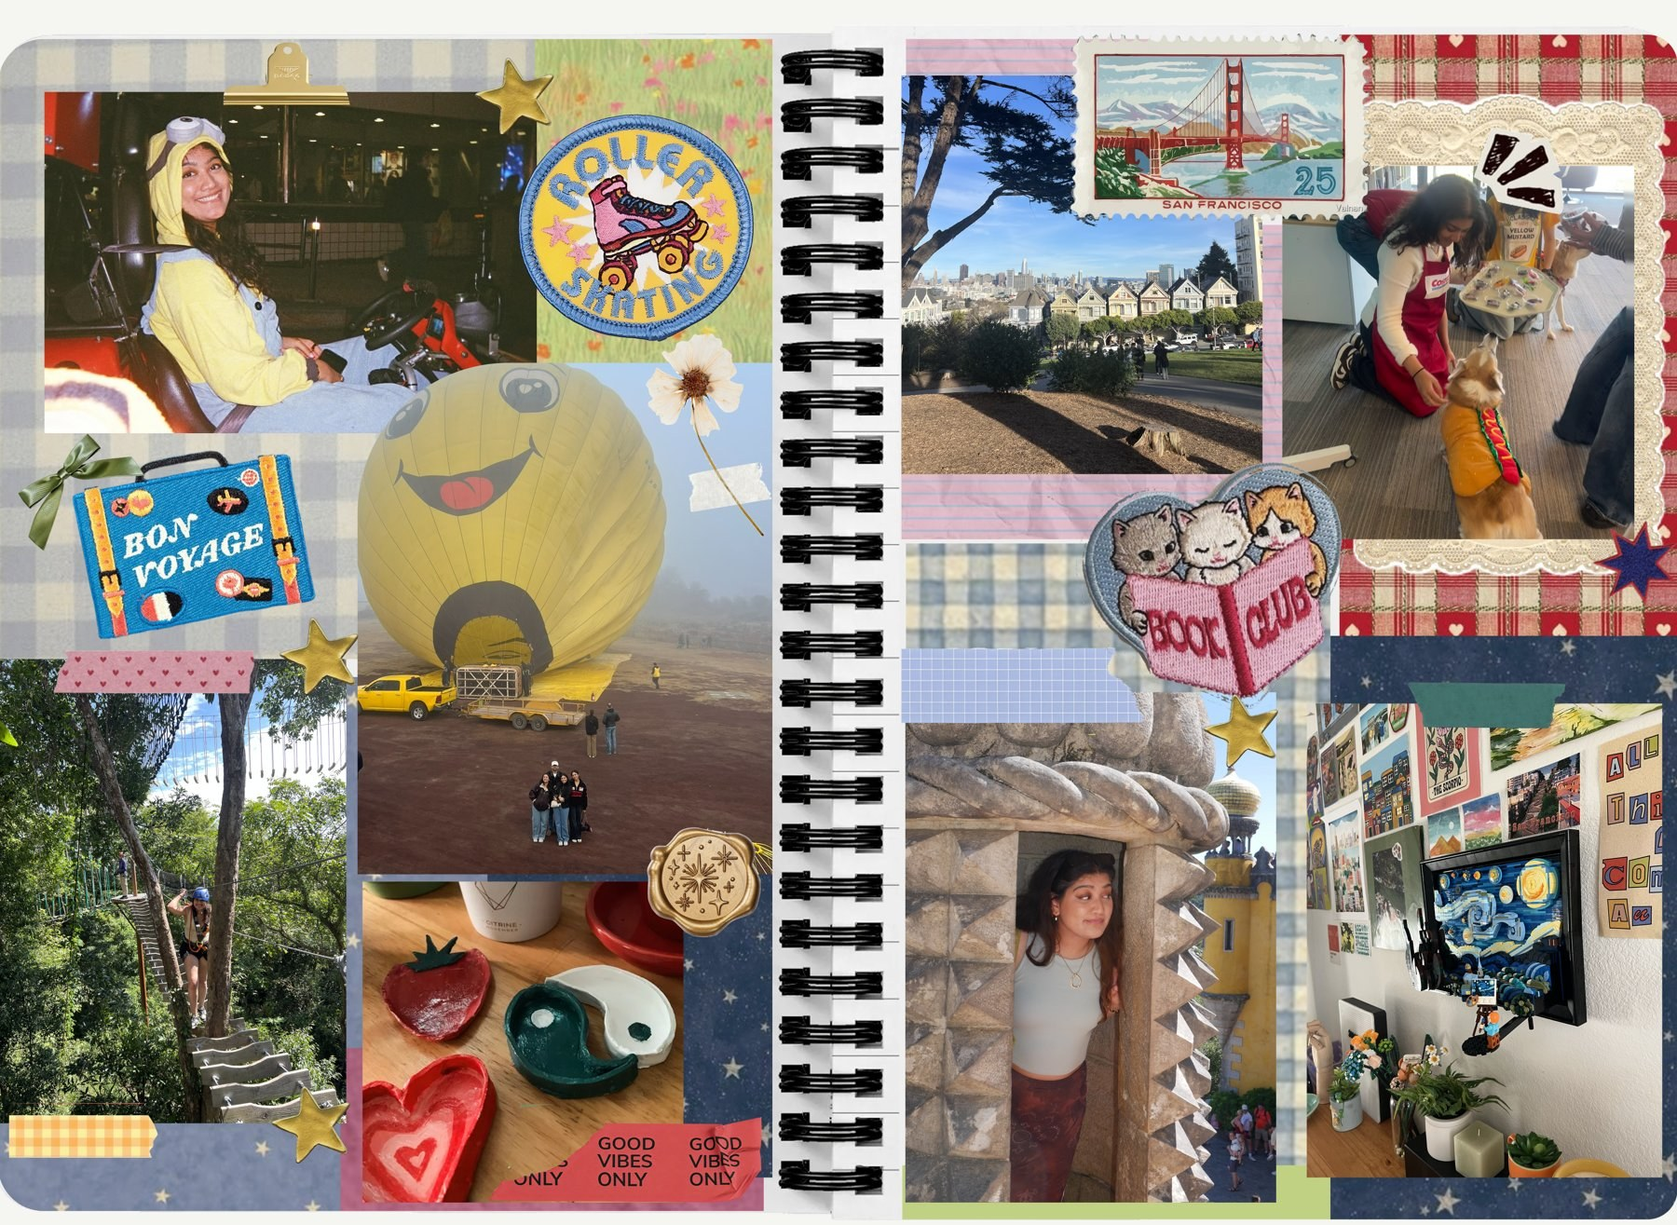
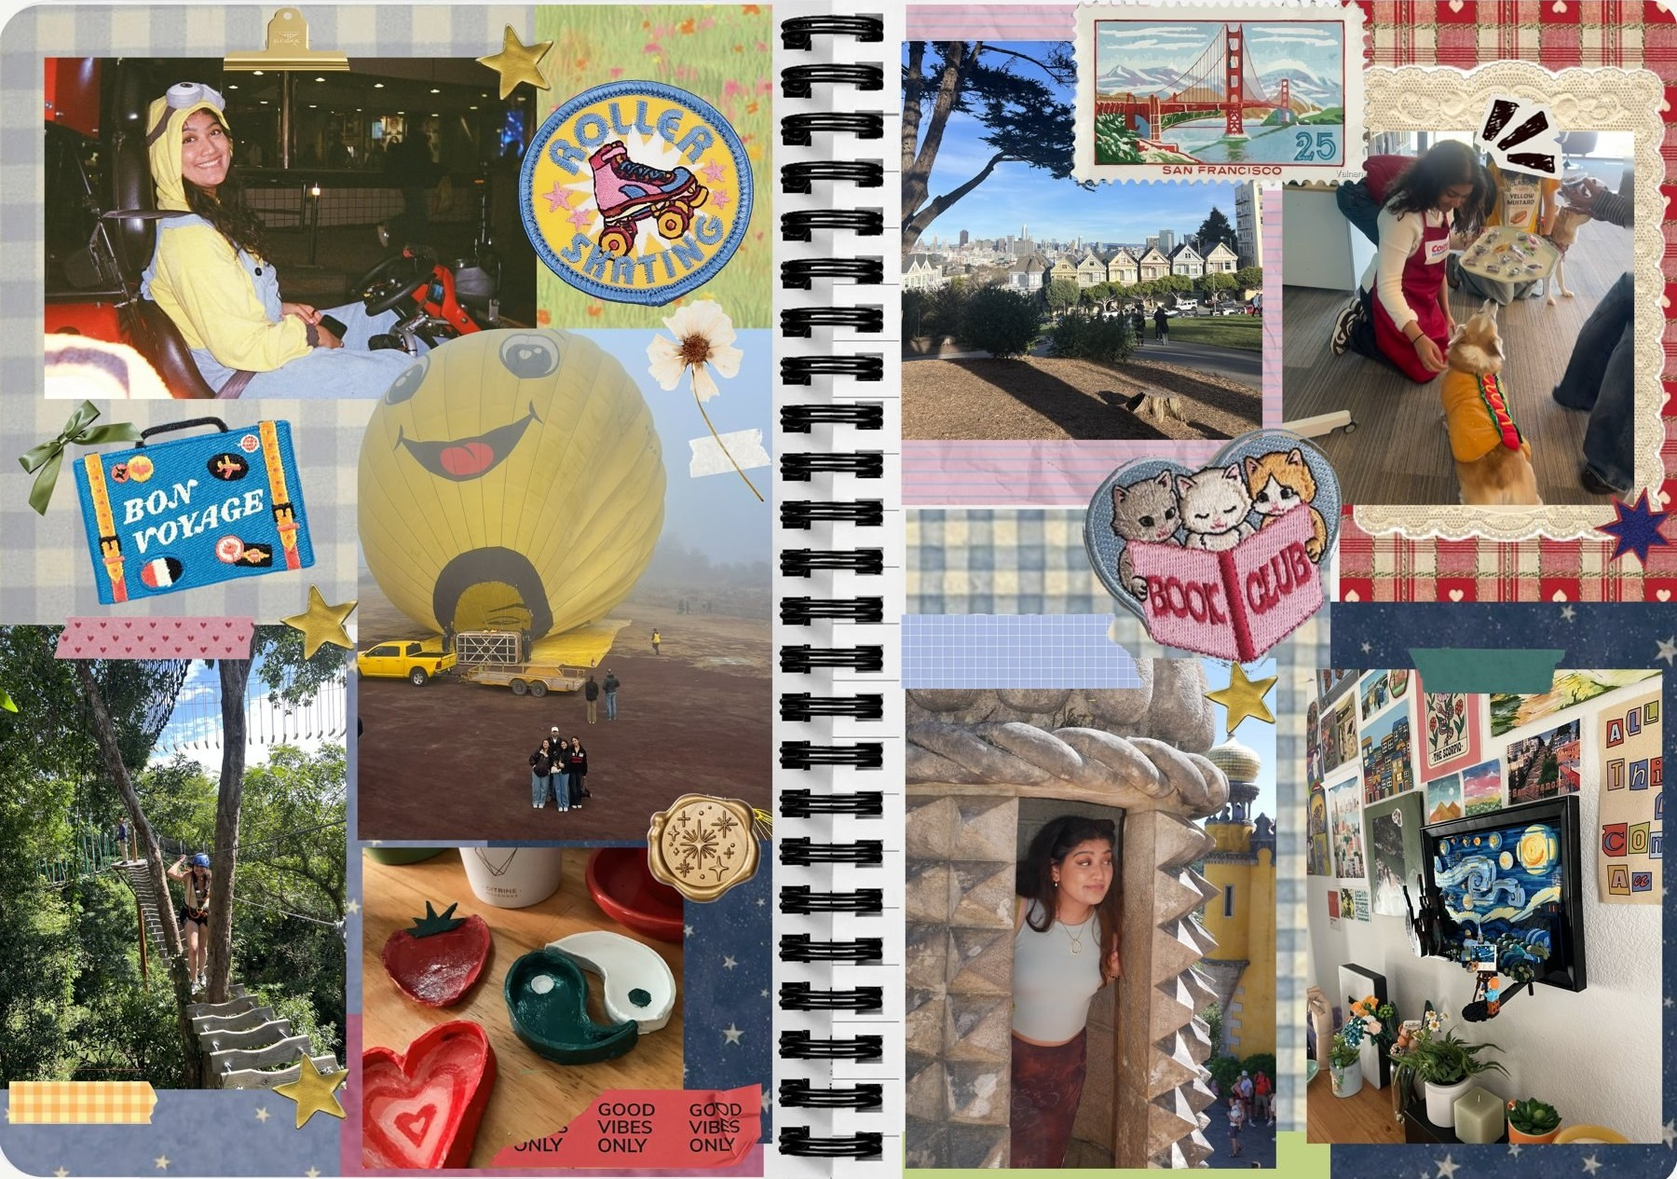
Play: maker matches scrapbook size, tools in boxes, one back button, note top right, trimmed spread image

diff --git a/play.html b/play.html
@@ -90,7 +90,7 @@ a{color:#3B3BF5}
 .pl-btn:hover,.mk-btn:hover{transform:translateY(-2px)}
 .pl-dark,.mk-dark{background:#1C1C1C;border-color:#1C1C1C;color:#FFFFFF}
 .pl-maker{position:relative;max-width:900px;margin:40px auto 0;padding:0 24px}
-.mk-page{position:relative;width:100%;aspect-ratio:1800/1315;border-radius:18px;box-shadow:0 18px 44px rgba(20,20,40,.14);overflow:hidden;touch-action:none;user-select:none;-webkit-user-select:none}
+.mk-page{position:relative;width:100%;aspect-ratio:1800/1265;border-radius:18px;box-shadow:0 18px 44px rgba(20,20,40,.14);overflow:hidden;touch-action:none;user-select:none;-webkit-user-select:none}
 .mk-half{position:absolute;top:0;bottom:0;width:50%}.mk-l{left:0}.mk-r{right:0}
 .mk-spine{position:absolute;left:50%;top:0;bottom:0;width:28px;margin-left:-14px;background:linear-gradient(90deg,transparent,rgba(60,50,30,.10) 45%,rgba(60,50,30,.16) 50%,rgba(60,50,30,.10) 55%,transparent);pointer-events:none}
 .mk-items{position:absolute;inset:0}
@@ -132,25 +132,31 @@ a{color:#3B3BF5}
 .mk-paper[aria-pressed="true"]{box-shadow:0 0 0 2px #F5F4F0,0 0 0 4px #7A70D8}
 .mk-ph{font:clamp(10px,1.6vw,17px) Caveat,cursive;color:rgba(43,41,55,.55);text-align:center;padding:0 6px}
 .mk-stage{display:block}
-.mk-back{display:none!important}
+.mk-box{border:1px solid #E4E1D9;border-radius:18px;background:rgba(255,255,255,.6);padding:14px;margin:18px auto 0;max-width:520px}
+.mk-box-title{margin:0 0 10px;font:600 11px Inter,sans-serif;letter-spacing:.08em;text-transform:uppercase;color:#7A70B8;text-align:center}
+.mk-box .mk-wordbar,.mk-box .mk-papers,.mk-box .mk-actions{margin-top:0}
+.mk-box .mk-papers{margin-top:12px}
+.mk-box .mk-hint{margin-top:10px}
 .mk-rail{display:none}
 .mk-chip{position:relative}
 .mk-chip::after{content:attr(data-tip);position:absolute;bottom:calc(100% + 8px);left:50%;transform:translateX(-50%) translateY(4px);background:#1C1C1C;color:#FFFFFF;font:12px/1.2 Inter,sans-serif;padding:6px 9px;border-radius:8px;white-space:nowrap;opacity:0;pointer-events:none;transition:opacity .15s,transform .15s;z-index:5}
 .mk-chip:hover::after,.mk-chip:focus-visible::after{opacity:1;transform:translateX(-50%) translateY(0)}
 @media (min-width:1100px){
   .pl-maker{max-width:none;margin-top:28px}
-  .mk-stage{display:grid;grid-template-columns:150px minmax(0,calc((100vh - 130px) * 1800 / 1315)) 150px;gap:28px;align-items:center;justify-content:center}
+  .mk-stage{display:grid;grid-template-columns:150px var(--bw) 150px;gap:28px;align-items:center;justify-content:center}
   .mk-rail{display:flex;flex-direction:column;gap:16px;align-items:stretch}
-  .mk-rail-sk{display:grid;grid-template-columns:repeat(2,52px);gap:10px;justify-content:center}
+  .mk-rail-sk{display:grid;grid-template-columns:repeat(3,44px);gap:8px;justify-content:center}
+  .mk-rail-sk .mk-chip{width:44px;height:44px;padding:5px;border-radius:12px}
   .mk-rail .mk-wordbar{flex-direction:column;margin:0;gap:6px}
   .mk-rail .mk-word-in{width:100%;box-sizing:border-box;padding:9px 12px;font-size:13px}
   .mk-rail .mk-wordbar .mk-btn{width:100%}
   .mk-rail .mk-papers{display:grid;grid-template-columns:repeat(3,30px);gap:8px;justify-content:center;margin:0}
   .mk-rail .mk-papers span{grid-column:1/-1;text-align:center;margin:0}
   .mk-rail .mk-actions{flex-direction:column;margin:0;gap:8px}
-  .mk-rail .mk-actions .mk-btn{width:100%}
-  .mk-rail .mk-hint{font-size:12px;margin:0;line-height:1.4}
-  .mk-back{display:block!important;width:100%}
+  .mk-rail .mk-actions .mk-btn{width:100%;white-space:nowrap;padding:9px 8px;font-size:13px}
+  .mk-rail .mk-hint{font-size:12px;margin:10px 0 0;line-height:1.4}
+  .mk-rail .mk-box{margin:0;padding:12px;max-width:none}
+  .mk-rail .mk-papers{margin-top:12px}
   .mk-tray{display:none!important}
 }
 .why-note{position:relative;margin:0 auto;max-width:300px;background:#FFFDF6;padding:22px 20px 18px;box-shadow:0 10px 24px rgba(20,20,40,.12);transform:rotate(-2.5deg);font:20px/1.25 Caveat,cursive;color:#2B2937;text-align:left;order:-1}
@@ -158,8 +164,9 @@ a{color:#3B3BF5}
 .why-note b{display:block;font:600 11px Inter,sans-serif;letter-spacing:.08em;text-transform:uppercase;color:#7A70B8;margin-bottom:6px}
 .note-cta{display:block;margin-top:12px;padding:8px 12px;white-space:nowrap;border:0;border-radius:999px;background:#1C1C1C;color:#FFFFFF;font:500 13px Inter,sans-serif;cursor:pointer;transition:transform .2s cubic-bezier(.34,1.56,.64,1)}
 .note-cta:hover{transform:translateY(-2px) rotate(1deg)}
-@media (min-width:1240px){.pl-book{max-width:780px!important}.why-note{position:absolute;left:-206px;top:90px;width:170px;max-width:none;z-index:3;order:0;font-size:18px;padding:20px 16px 16px}}
-@media (min-width:1440px){.pl-book{max-width:900px!important}.why-note{left:-262px;width:200px}}
+@media (min-width:1100px){:root{--bw:calc(100vw - 420px)}.pl-book{max-width:var(--bw)!important}}
+@media (min-width:1240px){:root{--bw:732px}.why-note{position:absolute;right:-150px;top:-34px;width:184px;max-width:none;z-index:3;order:0;font-size:18px;padding:20px 16px 16px;transform:rotate(4deg)}}
+@media (min-width:1440px){:root{--bw:852px}.why-note{right:-176px;width:200px}}
 .mk-tray{display:flex;gap:8px;flex-wrap:wrap;justify-content:center;margin-top:20px}
 .mk-chip{width:52px;height:52px;border-radius:14px;border:1px solid #E4E1D9;background:#FFFFFF;display:flex;align-items:center;justify-content:center;cursor:pointer;padding:6px;transition:transform .2s cubic-bezier(.34,1.56,.64,1)}
 .mk-chip:hover{transform:translateY(-3px)}
@@ -202,52 +209,52 @@ body.making .sga-root{display:none}
 
   <section class="pl-book" style="position: relative; max-width: 900px; margin: 48px auto 0; padding: 0 24px; flex-direction: column; align-items: center; gap: 20px; display: {{ bookD }}">
     <aside class="why-note"><b>Why a scrapbook?</b>Scrapbooking is my analog design practice: collecting little things, then figuring out how they fit together into a story.<button type="button" class="note-cta" data-on-click="{{ toggleMake }}">Make your own page ✦</button></aside>
-    <div style="position: relative; width: 100%; aspect-ratio: 1800 / 1315; perspective: 2400px; border-radius: 18px; box-shadow: 0 18px 44px rgba(20,20,40,0.14)">
+    <div style="position: relative; width: 100%; aspect-ratio: 1800 / 1265; perspective: 2400px; border-radius: 18px; box-shadow: 0 18px 44px rgba(20,20,40,0.14)">
       <div style="position: absolute; left: 0; top: 0; width: 50%; height: 100%"><div aria-hidden="true" class="{{ baseL }}" style="position: absolute; inset: 0; border-radius: 18px 0 0 18px"></div></div>
       <div style="position: absolute; left: 50%; top: 0; width: 50%; height: 100%"><div aria-hidden="true" class="{{ baseR }}" style="position: absolute; inset: 0; border-radius: 0 18px 18px 0"></div></div>
       <div aria-hidden="true" style="position: absolute; left: 50%; top: 0; bottom: 0; width: 28px; margin-left: -14px; background: linear-gradient(90deg, transparent, rgba(60,50,30,0.10) 45%, rgba(60,50,30,0.16) 50%, rgba(60,50,30,0.10) 55%, transparent); opacity: {{ spineO }}"></div>
       <div style="position: absolute; inset: 0; pointer-events: {{ hotPE }}; opacity: {{ hotO }}">
-        <div data-on-mouseenter="{{ on0 }}" data-on-mouseleave="{{ off }}" style="position: absolute; left: 2.94%; top: 7.63%; width: 28.63%; height: 22.09%; cursor: pointer; z-index: {{ z0 }}">
+        <div data-on-mouseenter="{{ on0 }}" data-on-mouseleave="{{ off }}" style="position: absolute; left: 2.94%; top: 5.01%; width: 28.63%; height: 22.96%; cursor: pointer; z-index: {{ z0 }}">
           <sc-if value="{{ s0 }}" hint-placeholder-val="{{ false }}">
             <span style="position: absolute; left: 50%; bottom: calc(100% + 8px); transform: translateX(-50%); width: max-content; max-width: 240px; padding: 9px 13px; border-radius: 12px; background: #FFFFFF; box-shadow: 0 10px 26px rgba(20,20,40,0.16); font-size: 13px; line-height: 1.4; color: #1C1C1C; text-align: center; pointer-events: none">always down for a side quest 🏃♀ ex. go karting through shibuya crossing in a minion costume</span>
           </sc-if>
         </div>
-        <div data-on-mouseenter="{{ on1 }}" data-on-mouseleave="{{ off }}" style="position: absolute; left: 31.42%; top: 10.04%; width: 12.63%; height: 17.67%; cursor: pointer; z-index: {{ z1 }}">
+        <div data-on-mouseenter="{{ on1 }}" data-on-mouseleave="{{ off }}" style="position: absolute; left: 31.42%; top: 7.51%; width: 12.63%; height: 18.37%; cursor: pointer; z-index: {{ z1 }}">
           <sc-if value="{{ s1 }}" hint-placeholder-val="{{ false }}">
             <span style="position: absolute; left: 50%; bottom: calc(100% + 8px); transform: translateX(-50%); width: max-content; max-width: 240px; padding: 9px 13px; border-radius: 12px; background: #FFFFFF; box-shadow: 0 10px 26px rgba(20,20,40,0.16); font-size: 13px; line-height: 1.4; color: #1C1C1C; text-align: center; pointer-events: none">rollerblading 🛼 a little rusty but still love it</span>
           </sc-if>
         </div>
-        <div data-on-mouseenter="{{ on2 }}" data-on-mouseleave="{{ off }}" style="position: absolute; left: 21.44%; top: 29.72%; width: 24.82%; height: 30.52%; cursor: pointer; z-index: {{ z2 }}">
+        <div data-on-mouseenter="{{ on2 }}" data-on-mouseleave="{{ off }}" style="position: absolute; left: 21.44%; top: 27.97%; width: 24.82%; height: 31.73%; cursor: pointer; z-index: {{ z2 }}">
           <sc-if value="{{ s2 }}" hint-placeholder-val="{{ false }}">
             <span style="position: absolute; left: 50%; bottom: calc(100% + 8px); transform: translateX(-50%); width: max-content; max-width: 240px; padding: 9px 13px; border-radius: 12px; background: #FFFFFF; box-shadow: 0 10px 26px rgba(20,20,40,0.16); font-size: 13px; line-height: 1.4; color: #1C1C1C; text-align: center; pointer-events: none">making fun memories with friends and family 🎈</span>
           </sc-if>
         </div>
-        <div data-on-mouseenter="{{ on3 }}" data-on-mouseleave="{{ off }}" style="position: absolute; left: 1.17%; top: 36.55%; width: 19.38%; height: 16.06%; cursor: pointer; z-index: {{ z3 }}">
+        <div data-on-mouseenter="{{ on3 }}" data-on-mouseleave="{{ off }}" style="position: absolute; left: 1.17%; top: 35.07%; width: 19.38%; height: 16.69%; cursor: pointer; z-index: {{ z3 }}">
           <sc-if value="{{ s3 }}" hint-placeholder-val="{{ false }}">
             <span style="position: absolute; left: 50%; bottom: calc(100% + 8px); transform: translateX(-50%); width: max-content; max-width: 240px; padding: 9px 13px; border-radius: 12px; background: #FFFFFF; box-shadow: 0 10px 26px rgba(20,20,40,0.16); font-size: 13px; line-height: 1.4; color: #1C1C1C; text-align: center; pointer-events: none">exploring new places ✈ finding hidden spots as I go</span>
           </sc-if>
         </div>
-        <div data-on-mouseenter="{{ on4 }}" data-on-mouseleave="{{ off }}" style="position: absolute; left: 54.04%; top: 6.02%; width: 21.73%; height: 33.33%; cursor: pointer; z-index: {{ z4 }}">
+        <div data-on-mouseenter="{{ on4 }}" data-on-mouseleave="{{ off }}" style="position: absolute; left: 54.04%; top: 3.33%; width: 21.73%; height: 34.65%; cursor: pointer; z-index: {{ z4 }}">
           <sc-if value="{{ s4 }}" hint-placeholder-val="{{ false }}">
             <span style="position: absolute; left: 50%; bottom: calc(100% + 8px); transform: translateX(-50%); width: max-content; max-width: 240px; padding: 9px 13px; border-radius: 12px; background: #FFFFFF; box-shadow: 0 10px 26px rgba(20,20,40,0.16); font-size: 13px; line-height: 1.4; color: #1C1C1C; text-align: center; pointer-events: none">exploring SF 🌁 finding new coffee shops to scrapbook at ☕</span>
           </sc-if>
         </div>
-        <div data-on-mouseenter="{{ on5 }}" data-on-mouseleave="{{ off }}" style="position: absolute; left: 21.44%; top: 71.49%; width: 24.08%; height: 26.91%; cursor: pointer; z-index: {{ z5 }}">
+        <div data-on-mouseenter="{{ on5 }}" data-on-mouseleave="{{ off }}" style="position: absolute; left: 21.44%; top: 71.39%; width: 24.08%; height: 27.97%; cursor: pointer; z-index: {{ z5 }}">
           <sc-if value="{{ s5 }}" hint-placeholder-val="{{ false }}">
             <span style="position: absolute; left: 50%; bottom: calc(100% + 8px); transform: translateX(-50%); width: max-content; max-width: 240px; padding: 9px 13px; border-radius: 12px; background: #FFFFFF; box-shadow: 0 10px 26px rgba(20,20,40,0.16); font-size: 13px; line-height: 1.4; color: #1C1C1C; text-align: center; pointer-events: none">always down for a new craft 🎨 painting, ceramics, you name it</span>
           </sc-if>
         </div>
-        <div data-on-mouseenter="{{ on6 }}" data-on-mouseleave="{{ off }}" style="position: absolute; left: 64.61%; top: 38.96%; width: 15.86%; height: 17.67%; cursor: pointer; z-index: {{ z6 }}">
+        <div data-on-mouseenter="{{ on6 }}" data-on-mouseleave="{{ off }}" style="position: absolute; left: 64.61%; top: 37.58%; width: 15.86%; height: 18.37%; cursor: pointer; z-index: {{ z6 }}">
           <sc-if value="{{ s6 }}" hint-placeholder-val="{{ false }}">
             <span style="position: absolute; left: 50%; bottom: calc(100% + 8px); transform: translateX(-50%); width: max-content; max-width: 240px; padding: 9px 13px; border-radius: 12px; background: #FFFFFF; box-shadow: 0 10px 26px rgba(20,20,40,0.16); font-size: 13px; line-height: 1.4; color: #1C1C1C; text-align: center; pointer-events: none">reading 📚 my goal is to read 30 books a year</span>
           </sc-if>
         </div>
-        <div data-on-mouseenter="{{ on7 }}" data-on-mouseleave="{{ off }}" style="position: absolute; left: 78.71%; top: 52.61%; width: 21.29%; height: 44.18%; cursor: pointer; z-index: {{ z7 }}">
+        <div data-on-mouseenter="{{ on7 }}" data-on-mouseleave="{{ off }}" style="position: absolute; left: 78.71%; top: 51.76%; width: 21.29%; height: 45.93%; cursor: pointer; z-index: {{ z7 }}">
           <sc-if value="{{ s7 }}" hint-placeholder-val="{{ false }}">
             <span style="position: absolute; left: 50%; bottom: calc(100% + 8px); transform: translateX(-50%); width: max-content; max-width: 240px; padding: 9px 13px; border-radius: 12px; background: #FFFFFF; box-shadow: 0 10px 26px rgba(20,20,40,0.16); font-size: 13px; line-height: 1.4; color: #1C1C1C; text-align: center; pointer-events: none">lego sets &amp; room decor 🧱 always making my space feel like me</span>
           </sc-if>
         </div>
-        <div data-on-mouseenter="{{ on8 }}" data-on-mouseleave="{{ off }}" style="position: absolute; left: 76.36%; top: 12.45%; width: 22.32%; height: 30.92%; cursor: pointer; z-index: {{ z8 }}">
+        <div data-on-mouseenter="{{ on8 }}" data-on-mouseleave="{{ off }}" style="position: absolute; left: 76.36%; top: 10.02%; width: 22.32%; height: 32.14%; cursor: pointer; z-index: {{ z8 }}">
           <sc-if value="{{ s8 }}" hint-placeholder-val="{{ false }}">
             <span style="position: absolute; left: 50%; bottom: calc(100% + 8px); transform: translateX(-50%); width: max-content; max-width: 240px; padding: 9px 13px; border-radius: 12px; background: #FFFFFF; box-shadow: 0 10px 26px rgba(20,20,40,0.16); font-size: 13px; line-height: 1.4; color: #1C1C1C; text-align: center; pointer-events: none">costumes &amp; team spirit 🎃 work halloween is serious business</span>
           </sc-if>
@@ -289,7 +296,7 @@ class Component extends DCLogic {
     const run = () => { clearTimeout(this.ft); this.setState({ i: 0, flip: null, a: -1 }); this.ft = setTimeout(step, 600); };
     if (!this.started) { this.started = true; run(); }
     const mk = this.state.make;
-    Object.assign(v, { making: mk, mine: !mk, bookD: mk ? 'none' : 'flex', makerD: mk ? 'block' : 'none', sub: mk ? 'Your turn! Make a page, then save it ✦' : 'A page from my scrapbook. Hover around to explore ✦', makeLabel: mk ? '← Back to my scrapbook' : 'Make your own page ✦', toggleMake: () => { const on = !this.state.make; this.setState({ make: on, a: -1 }); document.body.classList.toggle('making', on); if (on) setTimeout(() => { if (window.ScrapbookMaker) { if (!this.madeOnce) { this.madeOnce = true; document.querySelector('#maker [data-act=shuffle]').click(); } else window.ScrapbookMaker.refresh(); const m = document.querySelector('.pl-maker'); if (m && window.innerWidth >= 1100) window.scrollTo({ top: m.getBoundingClientRect().top + window.scrollY - 96, behavior: 'smooth' }); } }, 30); },
+    Object.assign(v, { making: mk, mine: !mk, bookD: mk ? 'none' : 'flex', makerD: mk ? 'block' : 'none', sub: mk ? 'Your turn! Make a page, then save it ✦' : 'A page from my scrapbook. Hover around to explore ✦', makeLabel: mk ? '← Back to my scrapbook' : 'Make your own page ✦', toggleMake: () => { const on = !this.state.make; this.setState({ make: on, a: -1 }); document.body.classList.toggle('making', on); if (on) setTimeout(() => { if (window.ScrapbookMaker) { if (!this.madeOnce) { this.madeOnce = true; document.querySelector('#maker [data-act=shuffle]').click(); } else window.ScrapbookMaker.refresh(); } }, 30); },
       replay: () => { if (!this.state.flip && this.state.i === N - 1) run(); }, replayO: i === N - 1 && !f ? 1 : 0.45, baseL: L(i), baseR: R(f === 'f' ? i + 1 : i), flipping: !!f, leafAnim: 'leafF .7s cubic-bezier(.45,.05,.3,1) both', leafFront: R(i), leafBack: L(i + 1), hotPE: i === N - 1 && !f ? 'auto' : 'none', hotO: i === N - 1 && !f ? 1 : 0, spineO: i === N - 1 && !f ? 0 : 1 }); return v; }
 }
 

diff --git a/js/scrapbook-maker.js b/js/scrapbook-maker.js
@@ -46,15 +46,16 @@
       '<div class="mk-items"></div>' +
       '<p class="mk-empty">Tap a sticker to start your page ✦</p>' +
     '</div><div class="mk-rail mk-rail-r" role="toolbar" aria-label="More stickers"></div></div>' +
+    '<div class="mk-box mk-box-l"><p class="mk-box-title">Make it yours</p>' +
     '<form class="mk-wordbar" autocomplete="off"><input class="mk-word-in" maxlength="16" placeholder="Type a word in cut-out letters" aria-label="Type a word"><button type="submit" class="mk-btn">Add ✂</button></form>' +
-    '<div class="mk-papers" role="group" aria-label="Paper"><span>Paper</span></div>' +
+    '<div class="mk-papers" role="group" aria-label="Paper"><span>Paper</span></div></div>' +
     '<div class="mk-tray" role="toolbar" aria-label="Stickers"></div>' +
-    '<div class="mk-actions">' +
+    '<div class="mk-box mk-box-r"><p class="mk-box-title">Your page</p><div class="mk-actions">' +
       '<button type="button" class="mk-btn" data-act="shuffle">Shuffle ⟳</button>' +
       '<button type="button" class="mk-btn" data-act="clear">Clear</button>' +
       '<button type="button" class="mk-btn mk-dark" data-act="save">Save my page ↓</button>' +
     '</div>' +
-    '<p class="mk-hint">Drag to move. Use the corner handle to resize and rotate. Your page stays on your device.</p>' +
+    '<p class="mk-hint">Drag to move. Use the corner handle to resize and rotate. Your page stays on your device.</p></div>' +
     '<input type="file" accept="image/*" class="mk-file" hidden>';
 
   var page = root.querySelector('.mk-page'), layer = root.querySelector('.mk-items'),
@@ -62,8 +63,7 @@
       file = root.querySelector('.mk-file');
 
   var railL = root.querySelector('.mk-rail-l'), railR = root.querySelector('.mk-rail-r');
-  railL.innerHTML = '<div class="mk-rail-sk"></div>'; railR.innerHTML = '<button type="button" class="mk-btn mk-back">← My scrapbook</button><div class="mk-rail-sk"></div>';
-  railR.querySelector('.mk-back').addEventListener('click', function () { var b = document.querySelector('.pl-actions .pl-dark'); if (b) b.click(); window.scrollTo({ top: 0, behavior: 'smooth' }); });
+  railL.innerHTML = '<div class="mk-rail-sk"></div>'; railR.innerHTML = '<div class="mk-rail-sk"></div>';
   var skL = railL.querySelector('.mk-rail-sk'), skR = railR.querySelector('.mk-rail-sk');
   ORDER.forEach(function (k, n) {
     [n < Math.ceil(ORDER.length / 2) ? skL : skR, tray].forEach(function (dest) {
@@ -248,7 +248,7 @@
   }
   function save() {
     select(null);
-    var W = 1800, H = Math.round(W * 1315 / 1800), cv = document.createElement('canvas');
+    var W = 1800, H = Math.round(W * 1265 / 1800), cv = document.createElement('canvas');
     cv.width = W; cv.height = H; var c = cv.getContext('2d');
     drawPaper(c, W, H);
     var srcs = items.filter(function (i) { return STICKERS[i.k].type === 'img'; }).map(function (i) { return STICKERS[i.k].src; });
@@ -331,17 +331,11 @@
     var y0 = -(lines.length - 1) * lh / 2; lines.forEach(function (l, i) { c.fillText(l, 0, y0 + i * lh); });
   }
 
-  var mq = window.matchMedia('(min-width: 1100px)'), home = {};
-  ['.mk-wordbar', '.mk-papers', '.mk-actions', '.mk-hint'].forEach(function (q) { var e = root.querySelector(q); home[q] = { el: e, parent: e.parentNode, next: e.nextSibling }; });
+  var mq = window.matchMedia('(min-width: 1100px)'), boxL = root.querySelector('.mk-box-l'), boxR = root.querySelector('.mk-box-r');
   function layout() {
-    var wide = mq.matches;
-    if (wide) {
-      railL.insertBefore(home['.mk-papers'].el, skL); railL.insertBefore(home['.mk-wordbar'].el, home['.mk-papers'].el);
-      railR.appendChild(home['.mk-actions'].el); railR.appendChild(home['.mk-hint'].el);
-    } else {
-      ['.mk-wordbar', '.mk-papers', '.mk-actions', '.mk-hint'].forEach(function (q) { var h = home[q]; h.parent.insertBefore(h.el, h.next && h.next.parentNode === h.parent ? h.next : null); });
-      var tr = root.querySelector('.mk-tray'); tr.parentNode.insertBefore(home['.mk-wordbar'].el, tr); tr.parentNode.insertBefore(home['.mk-papers'].el, tr);
-    }
+    var tr = root.querySelector('.mk-tray');
+    if (mq.matches) { railL.insertBefore(boxL, skL); railR.appendChild(boxR); }
+    else { tr.parentNode.insertBefore(boxL, tr); tr.parentNode.insertBefore(boxR, tr.nextSibling); }
     items.forEach(place);
   }
   (mq.addEventListener ? mq.addEventListener('change', layout) : mq.addListener(layout)); layout();
